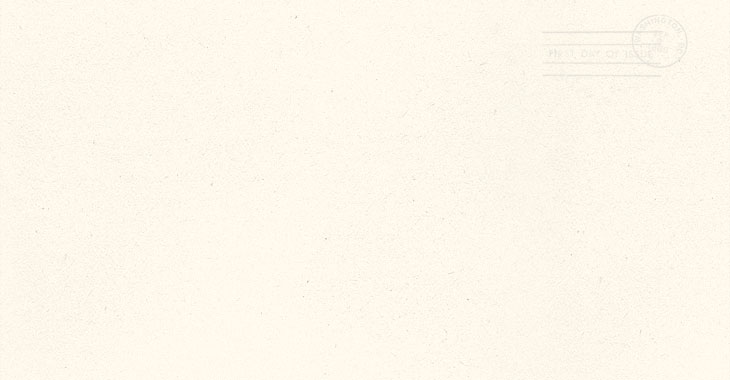
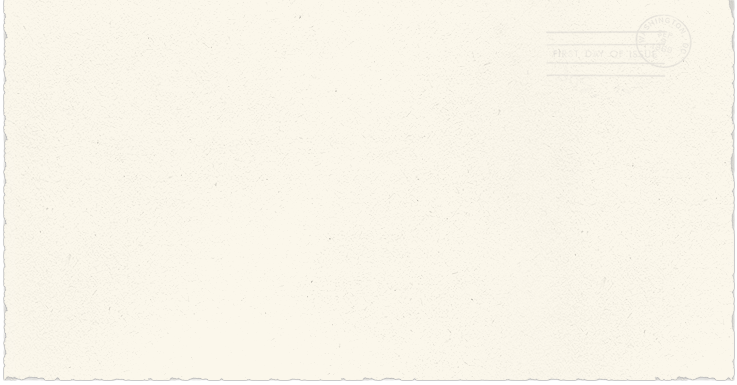
Updated landing letter styles.

diff --git a/public/stylesheets/landing.css b/public/stylesheets/landing.css
@@ -8,9 +8,9 @@ Syntax error: Undefined variable: "$typewriter".
 4: 	font-family: $typewriter
 5: 	#letter
 6: 		width: 620px
-7: 		padding: 25px 50px 30px
-8: 		background: #fef9ec url(../images/landingLetterBG.jpg) no-repeat 0 0
-9: 		margin: 0 auto 40px
+7: 		height: 311px
+8: 		padding: 35px 60px
+9: 		background: transparent url(../images/landingLetterBG.jpg) no-repeat 0 0
 
 Backtrace:
 /Users/djbrowning/projects/momeant/repo/public/stylesheets/sass/landing.sass:4
@@ -101,4 +101,4 @@ Backtrace:
 body:before {
   white-space: pre;
   font-family: monospace;
-  content: "Syntax error: Undefined variable: \"$typewriter\".\A         on line 4 of /Users/djbrowning/projects/momeant/repo/public/stylesheets/sass/landing.sass\A \A 1: #landing\A 2: 	background: #d1cecb\A 3: 	min-height: 100%\A 4: 	font-family: $typewriter\A 5: 	#letter\A 6: 		width: 620px\A 7: 		padding: 25px 50px 30px\A 8: 		background: #fef9ec url(../images/landingLetterBG.jpg) no-repeat 0 0\A 9: 		margin: 0 auto 40px"; }
+  content: "Syntax error: Undefined variable: \"$typewriter\".\A         on line 4 of /Users/djbrowning/projects/momeant/repo/public/stylesheets/sass/landing.sass\A \A 1: #landing\A 2: 	background: #d1cecb\A 3: 	min-height: 100%\A 4: 	font-family: $typewriter\A 5: 	#letter\A 6: 		width: 620px\A 7: 		height: 311px\A 8: 		padding: 35px 60px\A 9: 		background: transparent url(../images/landingLetterBG.jpg) no-repeat 0 0"; }

diff --git a/public/stylesheets/styles.css b/public/stylesheets/styles.css
@@ -507,12 +507,10 @@ table {
   font-family: "museo-slab-1", "museo-slab-2", serif; }
   #landing #letter {
     width: 620px;
-    padding: 25px 50px 30px;
-    background: #fef9ec url(../images/landingLetterBG.jpg) no-repeat 0 0;
+    height: 311px;
+    padding: 35px 60px;
+    background: transparent url(../images/landingLetterBG.jpg) no-repeat 0 0;
     margin: 0 auto 40px;
-    -webkit-box-shadow: 0 0 7px rgba(0, 0, 0, 0.2);
-    -moz-box-shadow: 0 0 7px rgba(0, 0, 0, 0.2);
-    box-shadow: 0 0 7px rgba(0, 0, 0, 0.2);
     font-size: 14px; }
     #landing #letter p {
       margin: 15px 0; }

diff --git a/public/stylesheets/sass/landing.sass b/public/stylesheets/sass/landing.sass
@@ -4,10 +4,10 @@
 	font-family: $typewriter
 	#letter
 		width: 620px
-		padding: 25px 50px 30px
-		background: #fef9ec url(../images/landingLetterBG.jpg) no-repeat 0 0
+		height: 311px
+		padding: 35px 60px
+		background: transparent url(../images/landingLetterBG.jpg) no-repeat 0 0
 		margin: 0 auto 40px
-		@include boxshadow(7px,0.2,0,0)
 		font-size: 14px
 		p
 			margin: 15px 0
